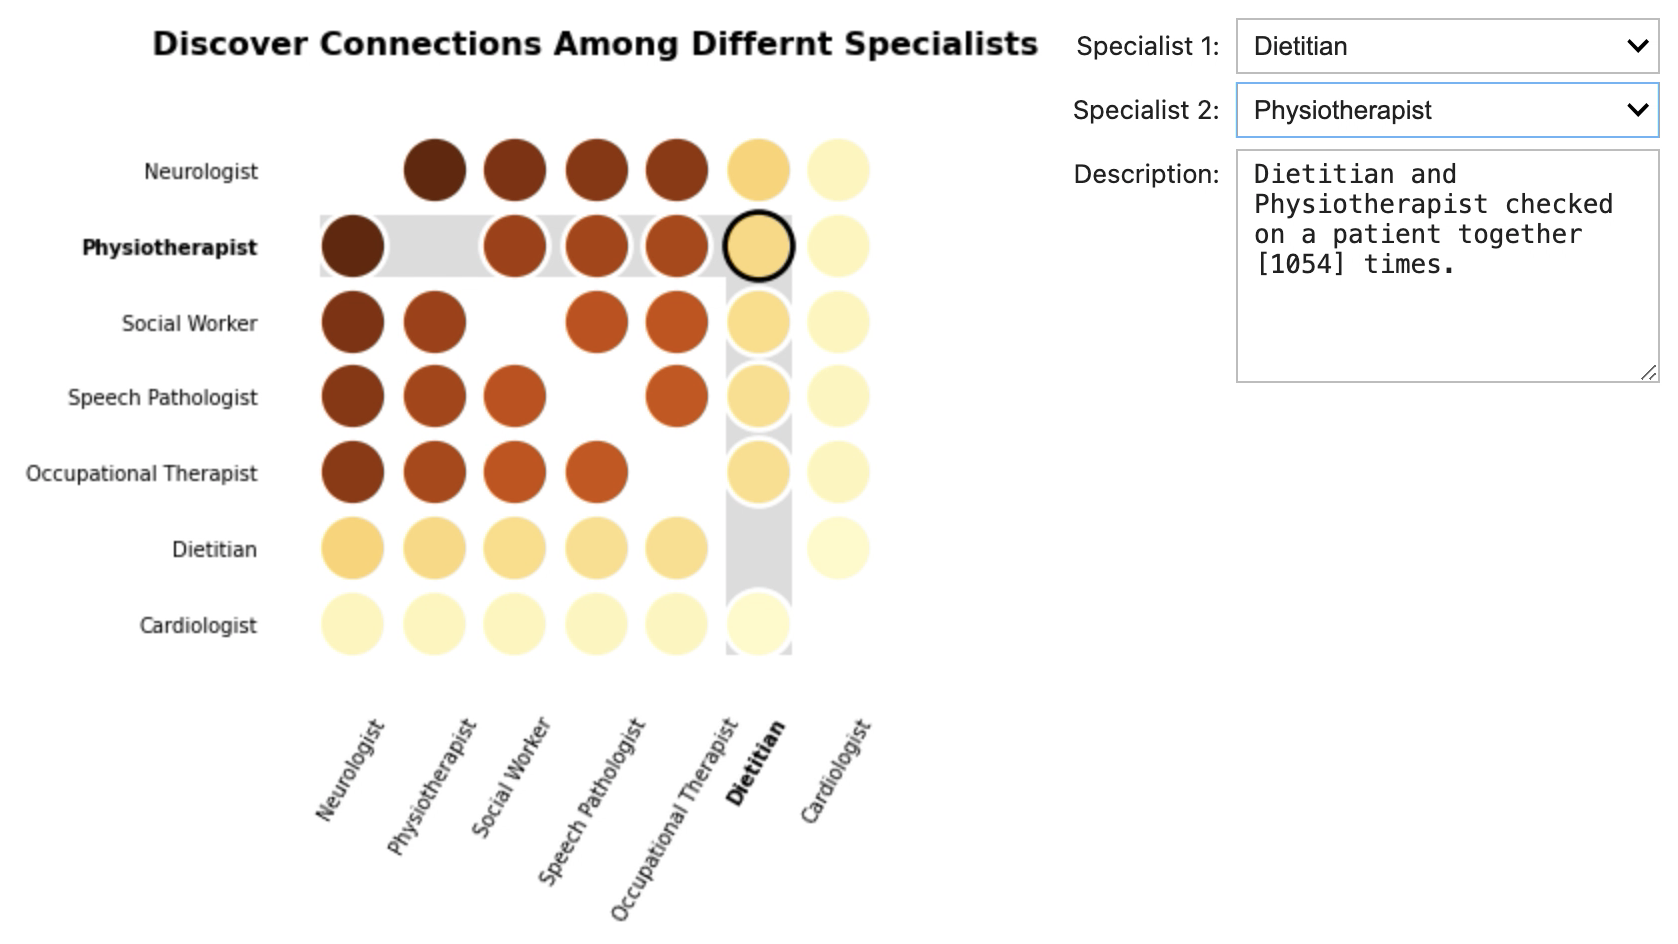
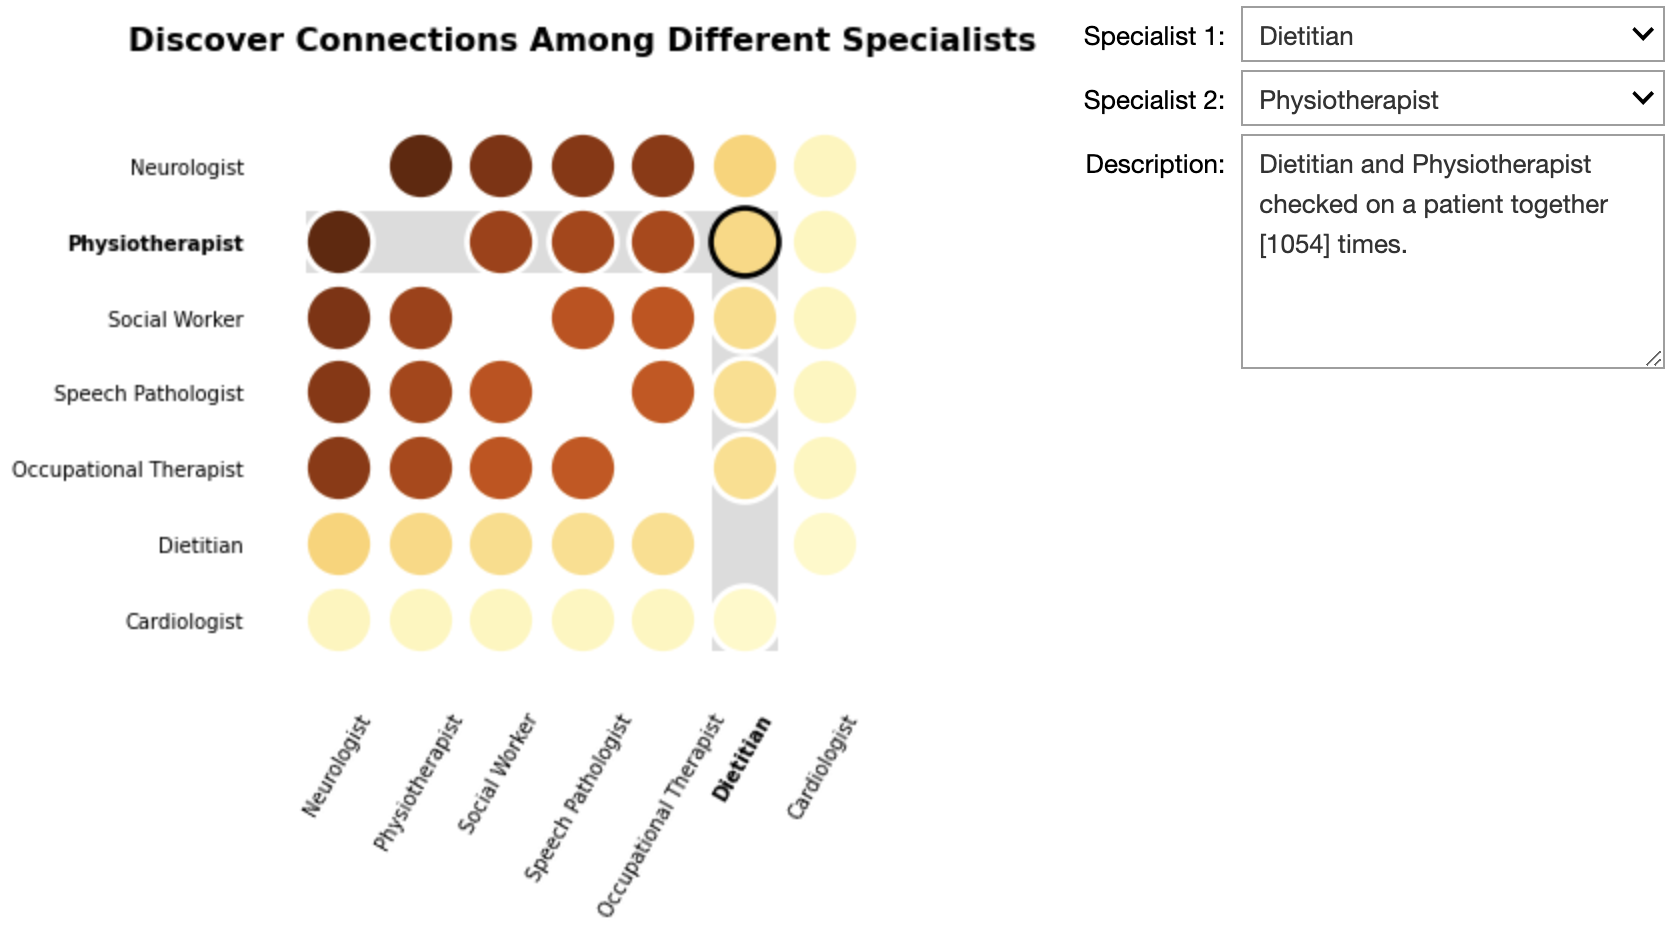
Fixed typo

diff --git a/README.md b/README.md
@@ -1,7 +1,7 @@
 # Data Visualization - Interactive Dashboard
 
 ## Description
-Interactive dashboard can help customers to explore the data and understand underlying processes and trends by using interactive elements.
+Interactive dashboards can help customers explore the data and understand underlying processes and trends by using interactive elements.
 
 > In this project, I designed four interactive visualizations to better monitor the hospital’s processes around stroke care.
 
@@ -9,7 +9,7 @@ We design the dashboard in accordance with the patient's journey through the hos
 
 ## Interactive Dashboard
 
-### 1. Patients arrive to hospital in the emergency department.
+### 1. Patients arrive at the hospital in the emergency department.
 
 > We focus on the average number of patients' visits per hour in a day, allowing the hospital to prepare in advance. We use a polar chart the demonstrate the trends in a dial plate.
 
@@ -43,4 +43,4 @@ We design the dashboard in accordance with the patient's journey through the hos
 
 - The color of the points corresponds to the number of times both specialists have visited the patient. The darker the color, the more concurrence there is.
 
-- We use the textarea as an output displayer. Textarea is updated when triggered by dropdown menus. It shows the number of times two selected specialists checked on a patient together.
+- We use the textarea as an output monitor. Textarea is updated when triggered by dropdown menus. It shows the number of times two selected specialists checked on a patient together.
